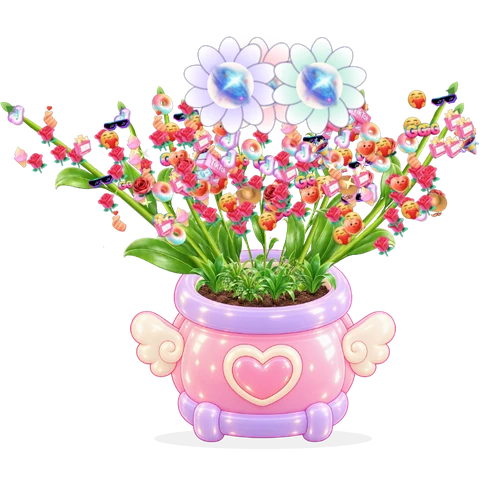
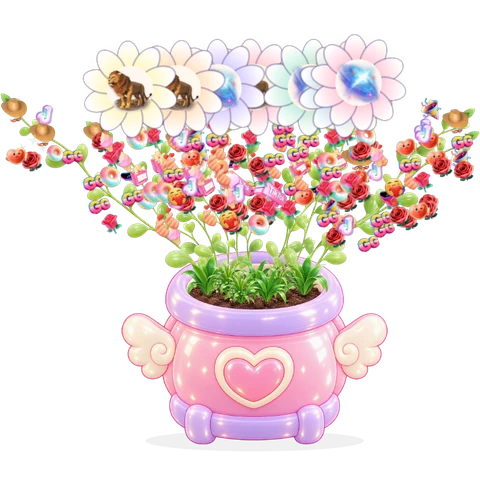
Garden stems: slender cute round-leaf branches by default (stemArt=classic keeps the old long-leaf stems)

diff --git a/packages/overlay/public/garden.html b/packages/overlay/public/garden.html
@@ -355,11 +355,15 @@
     // โคนกิ่ง: แปลงผัก = จุดบนดินที่วัดจากรูป · กระถาง = กระจายรอบกลางดิน · classic = ปากกระถาง
     const stemBase = (st) => st.bx != null ? { x: st.bx, y: st.by } : POT_SKIN ? { x: Math.cos(st.a) * SPREAD, y: POT_TOP + 8 - Math.abs(Math.cos(st.a)) * 6 } : { x: Math.cos(st.a) * 14, y: POT_TOP + 4 };
     // ก้านดอกภาพ AI (แปลงผัก + กระถาง): a = สูง/กว้าง, p = จุดกลางก้าน 11 จุด (สัดส่วนในภาพ) จากโคน [0] ถึงปลายยอด [10]
-    const STEM_SPR = { 'tall-0': { a: 3.279, p: [[0.5,0.995],[0.504,0.895],[0.549,0.795],[0.488,0.698],[0.484,0.598],[0.426,0.497],[0.455,0.398],[0.48,0.297],[0.496,0.2],[0.488,0.1],[0.52,0.0]] }, 'tall-1': { a: 3.03, p: [[0.686,0.995],[0.67,0.895],[0.693,0.795],[0.761,0.698],[0.746,0.598],[0.697,0.497],[0.598,0.398],[0.576,0.297],[0.595,0.2],[0.663,0.1],[0.655,0.0]] }, 'tall-2': { a: 3.478, p: [[0.487,0.995],[0.496,0.895],[0.487,0.795],[0.478,0.698],[0.448,0.598],[0.47,0.497],[0.478,0.398],[0.526,0.297],[0.517,0.2],[0.465,0.1],[0.413,0.0]] }, 'tall-3': { a: 3.175, p: [[0.516,0.995],[0.5,0.895],[0.472,0.795],[0.484,0.698],[0.591,0.598],[0.675,0.497],[0.714,0.398],[0.698,0.297],[0.603,0.2],[0.46,0.1],[0.405,0.0]] }, 'short-0': { a: 1.778, p: [[0.542,0.995],[0.56,0.895],[0.58,0.795],[0.58,0.698],[0.576,0.598],[0.493,0.497],[0.498,0.398],[0.447,0.297],[0.362,0.2],[0.249,0.1],[0.173,0.0]] }, 'short-1': { a: 1.646, p: [[0.537,0.995],[0.556,0.895],[0.556,0.795],[0.56,0.698],[0.56,0.598],[0.556,0.497],[0.545,0.398],[0.535,0.297],[0.519,0.2],[0.486,0.1],[0.459,0.0]] }, 'short-2': { a: 1.86, p: [[0.481,0.995],[0.467,0.895],[0.435,0.795],[0.435,0.698],[0.435,0.598],[0.442,0.497],[0.491,0.398],[0.565,0.297],[0.658,0.2],[0.751,0.1],[0.793,0.0]] }, 'short-3': { a: 1.818, p: [[0.475,0.995],[0.461,0.895],[0.439,0.795],[0.42,0.698],[0.423,0.598],[0.439,0.497],[0.48,0.398],[0.539,0.297],[0.623,0.2],[0.741,0.1],[0.832,0.0]] } };
-    const sprOf = (st) => st.spr && vegImg('themes/veg/stem-' + st.spr + '.webp') ? STEM_SPR[st.spr] : null;
+    // cute-N = กิ่งเรียวใบกลมน่ารัก (GPT · themes/veg/bushbr-N.webp · จุดแกนกิ่งวัดจากภาพ)
+    const STEM_SPR = { 'cute-0': { a: 5.789, p: [[0.56,0.995],[0.55,0.9],[0.38,0.8],[0.40,0.7],[0.61,0.6],[0.70,0.5],[0.66,0.4],[0.52,0.3],[0.42,0.2],[0.52,0.1],[0.62,0.0]] }, 'cute-1': { a: 6.281, p: [[0.43,0.995],[0.50,0.9],[0.53,0.8],[0.54,0.7],[0.50,0.6],[0.46,0.5],[0.48,0.4],[0.54,0.3],[0.52,0.2],[0.44,0.1],[0.52,0.0]] }, 'cute-2': { a: 5.614, p: [[0.46,0.995],[0.40,0.9],[0.49,0.8],[0.59,0.7],[0.53,0.6],[0.41,0.5],[0.31,0.4],[0.38,0.3],[0.53,0.2],[0.49,0.1],[0.39,0.0]] }, 'cute-3': { a: 5.536, p: [[0.49,0.995],[0.48,0.9],[0.55,0.8],[0.62,0.7],[0.60,0.6],[0.51,0.5],[0.43,0.4],[0.52,0.3],[0.58,0.2],[0.52,0.1],[0.38,0.0]] }, 'tall-0': { a: 3.279, p: [[0.5,0.995],[0.504,0.895],[0.549,0.795],[0.488,0.698],[0.484,0.598],[0.426,0.497],[0.455,0.398],[0.48,0.297],[0.496,0.2],[0.488,0.1],[0.52,0.0]] }, 'tall-1': { a: 3.03, p: [[0.686,0.995],[0.67,0.895],[0.693,0.795],[0.761,0.698],[0.746,0.598],[0.697,0.497],[0.598,0.398],[0.576,0.297],[0.595,0.2],[0.663,0.1],[0.655,0.0]] }, 'tall-2': { a: 3.478, p: [[0.487,0.995],[0.496,0.895],[0.487,0.795],[0.478,0.698],[0.448,0.598],[0.47,0.497],[0.478,0.398],[0.526,0.297],[0.517,0.2],[0.465,0.1],[0.413,0.0]] }, 'tall-3': { a: 3.175, p: [[0.516,0.995],[0.5,0.895],[0.472,0.795],[0.484,0.698],[0.591,0.598],[0.675,0.497],[0.714,0.398],[0.698,0.297],[0.603,0.2],[0.46,0.1],[0.405,0.0]] }, 'short-0': { a: 1.778, p: [[0.542,0.995],[0.56,0.895],[0.58,0.795],[0.58,0.698],[0.576,0.598],[0.493,0.497],[0.498,0.398],[0.447,0.297],[0.362,0.2],[0.249,0.1],[0.173,0.0]] }, 'short-1': { a: 1.646, p: [[0.537,0.995],[0.556,0.895],[0.556,0.795],[0.56,0.698],[0.56,0.598],[0.556,0.497],[0.545,0.398],[0.535,0.297],[0.519,0.2],[0.486,0.1],[0.459,0.0]] }, 'short-2': { a: 1.86, p: [[0.481,0.995],[0.467,0.895],[0.435,0.795],[0.435,0.698],[0.435,0.598],[0.442,0.497],[0.491,0.398],[0.565,0.297],[0.658,0.2],[0.751,0.1],[0.793,0.0]] }, 'short-3': { a: 1.818, p: [[0.475,0.995],[0.461,0.895],[0.439,0.795],[0.42,0.698],[0.423,0.598],[0.439,0.497],[0.48,0.398],[0.539,0.297],[0.623,0.2],[0.741,0.1],[0.832,0.0]] } };
+    const sprSrc = (spr) => (spr.startsWith('cute-') ? 'themes/veg/bushbr-' + spr.slice(5) : 'themes/veg/stem-' + spr) + '.webp';
+    const STEM_ART = P('stemArt', 'cute') === 'classic' ? 'classic' : 'cute'; // ?stemArt=classic = ก้านใบยาวแบบเดิม
+    const sprW = (st) => (st.spr && st.spr.startsWith('cute-') ? Math.min(1.5, STEM_W / 0.55) : STEM_W); // กิ่งน่ารักเรียวอยู่แล้ว: ค่าเริ่มต้น = ขนาดจริงของภาพ
+    const sprOf = (st) => st.spr && vegImg(sprSrc(st.spr)) ? STEM_SPR[st.spr] : null;
     const sprTheta = (st, time) => st.lean + Math.sin(time * 0.9 + st.phase) * 0.05 * SWAY; // ไหวเบา ๆ = หมุนรอบโคน
     function sprPoint(st, M, t, time) {
-      const H = st.len, W = H / M.a * STEM_W, th = sprTheta(st, time), c = Math.cos(th), s = Math.sin(th), P = M.p, p0 = P[0];
+      const H = st.len, W = H / M.a * sprW(st), th = sprTheta(st, time), c = Math.cos(th), s = Math.sin(th), P = M.p, p0 = P[0];
       const f = Math.max(0, Math.min(10, t * 10)), i = Math.min(9, Math.floor(f)), k = f - i;
       const px = P[i][0] + (P[i + 1][0] - P[i][0]) * k, py = P[i][1] + (P[i + 1][1] - P[i][1]) * k;
       const u = (px - p0[0]) * W * st.m, v = (py - p0[1]) * H, du = (P[i + 1][0] - P[i][0]) * W * st.m, dv = (P[i + 1][1] - P[i][1]) * H;
@@ -370,7 +374,7 @@
       st.maxLen = st.maxLen || st.len; st.len = st.maxLen;
       const q0 = stemPoint(st, 0, 0), q1 = stemPoint(st, 1, 0);
       st.sb = q0; st.lean = Math.atan2(q1.x - q0.x, -(q1.y - q0.y));
-      st.spr = (tall ? 'tall-' : 'short-') + ((idx * 3 + 1) % 4); st.m = idx % 3 === 1 ? -1 : 1; vegImg('themes/veg/stem-' + st.spr + '.webp'); // โหลดภาพล่วงหน้า
+      st.spr = STEM_ART === 'cute' ? 'cute-' + ((idx * 3 + 1) % 4) : (tall ? 'tall-' : 'short-') + ((idx * 3 + 1) % 4); st.m = idx % 3 === 1 ? -1 : 1; vegImg(sprSrc(st.spr)); // โหลดภาพล่วงหน้า
       st.grow = true; st.cur = 0; st.target = 0; st.len = 0; st.rev = 1;
     }
     // ตำแหน่งบนกิ่ง ณ เวลา time (มีลมแกว่ง)
@@ -932,7 +936,7 @@
       const wk = wk0 * (st.wk || 1) * STEM_W;
       const M = st.grow && sprOf(st);
       if (M) { // ก้านภาพ AI: ยึดโคน หมุนไหว · ตอนงอกครั้งแรกเผยจากโคนขึ้นไป
-        const im = vegImg('themes/veg/stem-' + st.spr + '.webp'), H = st.len, W = H / M.a * STEM_W, p0 = M.p[0];
+        const im = vegImg(sprSrc(st.spr)), H = st.len, W = H / M.a * sprW(st), p0 = M.p[0];
         ctx.save(); ctx.translate(st.sb.x, st.sb.y); ctx.rotate(sprTheta(st, time));
         const gs = st.rev < 1 ? 0.85 + 0.15 * st.rev : 1; ctx.scale(st.m * gs, gs); // งอกครั้งแรก: ยืด + ขยายเข้าเล็กน้อย (ไม่ตัดภาพ ไม่มีขอบตัดแข็ง)
         ctx.drawImage(im, -p0[0] * W, -p0[1] * H, W, H); ctx.restore();

diff --git a/packages/dashboard/lib/widgetSettings.ts b/packages/dashboard/lib/widgetSettings.ts
@@ -469,6 +469,7 @@ export const WIDGET_SETTINGS: Record<string, WidgetSettingsDef> = {
     sections: [
       { title: 'กระถาง', fields: [
         { key: 'sway', label: 'ความแรงลม (กิ่งแกว่ง)', type: 'range', min: 0, max: 3, step: 0.1, def: 1, hint: '0 = นิ่ง' },
+        { key: 'stemArt', label: 'แบบกิ่ง', type: 'select', def: 'cute', when: (v) => v.skin !== 'tree' && v.look !== 'bush' && !/^(v|bq)/.test(String(v.skin ?? '')), options: [['cute', '🌱 กิ่งเรียวใบกลมน่ารัก'], ['classic', '🌿 ก้านใบยาวแบบเดิม']] },
         { key: 'stemLen', label: 'ความยาวกิ่ง', type: 'range', min: 0.8, max: 2, step: 0.05, def: 1.35, unit: '×', when: (v) => v.skin !== 'tree' && v.look !== 'bush' },
         { key: 'stemW', label: 'ความหนาก้าน', type: 'range', min: 0.35, max: 1.5, step: 0.05, def: 0.55, unit: '×', hint: 'น้อย = ก้านเรียวบาง', when: (v) => v.skin !== 'tree' && v.look !== 'bush' },
         { key: 'big', label: 'ของขวัญที่เป็นดอกใหญ่บนยอด ตั้งแต่ (เหรียญ)', type: 'number', min: 1, def: 1000 },

diff --git a/packages/dashboard/lib/i18n/en-widgets.ts b/packages/dashboard/lib/i18n/en-widgets.ts
@@ -827,6 +827,9 @@ export const EN_WIDGETS: Record<string, string> = {
   "ความยาวกิ่ง": "Branch length",
   "ความหนาก้าน": "Stem thickness",
   "แบบดอกไม้": "Flower style",
+  "แบบกิ่ง": "Branch style",
+  "🌱 กิ่งเรียวใบกลมน่ารัก": "🌱 Slender cute branches",
+  "🌿 ก้านใบยาวแบบเดิม": "🌿 Classic long-leaf stems",
   "🌿 ก้านยาว": "🌿 Long stems",
   "💐 พุ่มดอกไม้ฟู": "💐 Fluffy flower bush",
   "น้อย = ก้านเรียวบาง": "Lower = slimmer stems",
